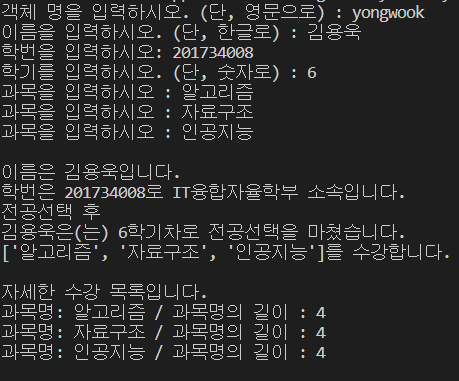
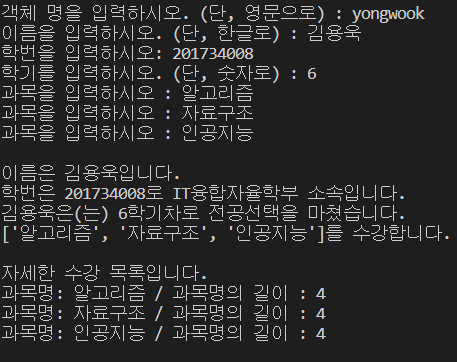
6주차 과제

Changed region(s): [[0.0, 0.0, 0.9497, 0.395], [0.0, 0.4254, 0.9803, 0.6989], [0.0, 0.7293, 0.7352, 0.942]]

diff --git a/yongwook/class_assignment.py b/yongwook/class_assignment.py
@@ -27,12 +27,11 @@ class Student: # Student 클래스
 
     def print_semester(self): # 학기를 출력하는 메소드
         if self.semester <= 3: # 3학기차 까지는 (정수로 입력받음) 
-            print(f"전공선택 전")
+            print(f"{self.semester}학기차인 {self.name}은(는) 아직 전공선택 전입니다.")
         elif self.semester >= 4: # 4학기차 이상은
-            print(f"전공선택 후") 
+            print(f"{self.name}은(는) {self.semester}학기차로 전공선택을 마쳤습니다.") 
         else: 
-            print(f"오류입니다") 
-        print(f"{self.name}은(는) {self.semester}학기차로 전공선택을 마쳤습니다.")
+            print(f"오류입니다")
 
     def print_subject(self): # 수강 과목을 출력하는 메소드 (과목 리스트 포함 문자열 반환)
         print(f"{self.subject}를 수강합니다.")
